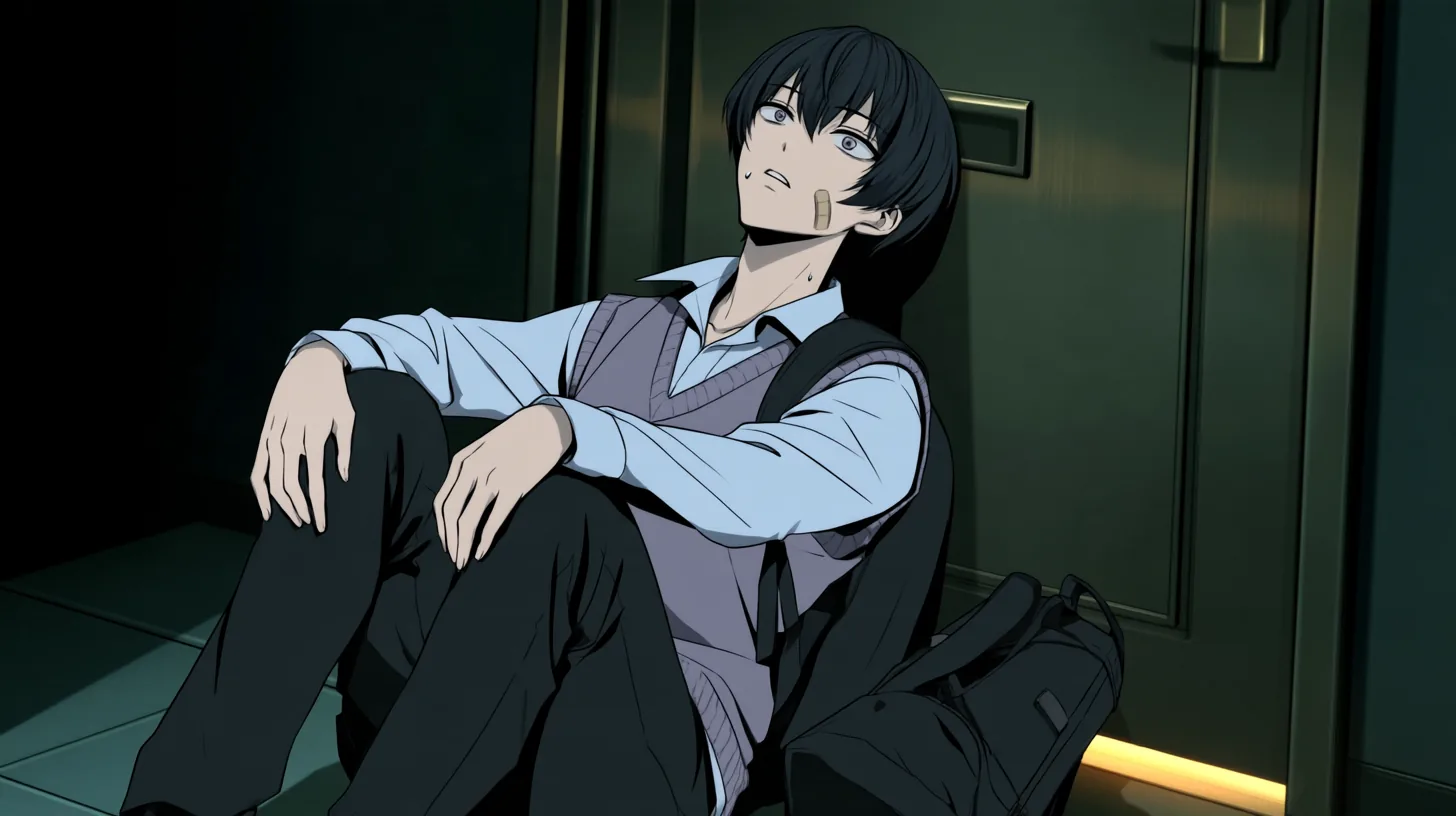
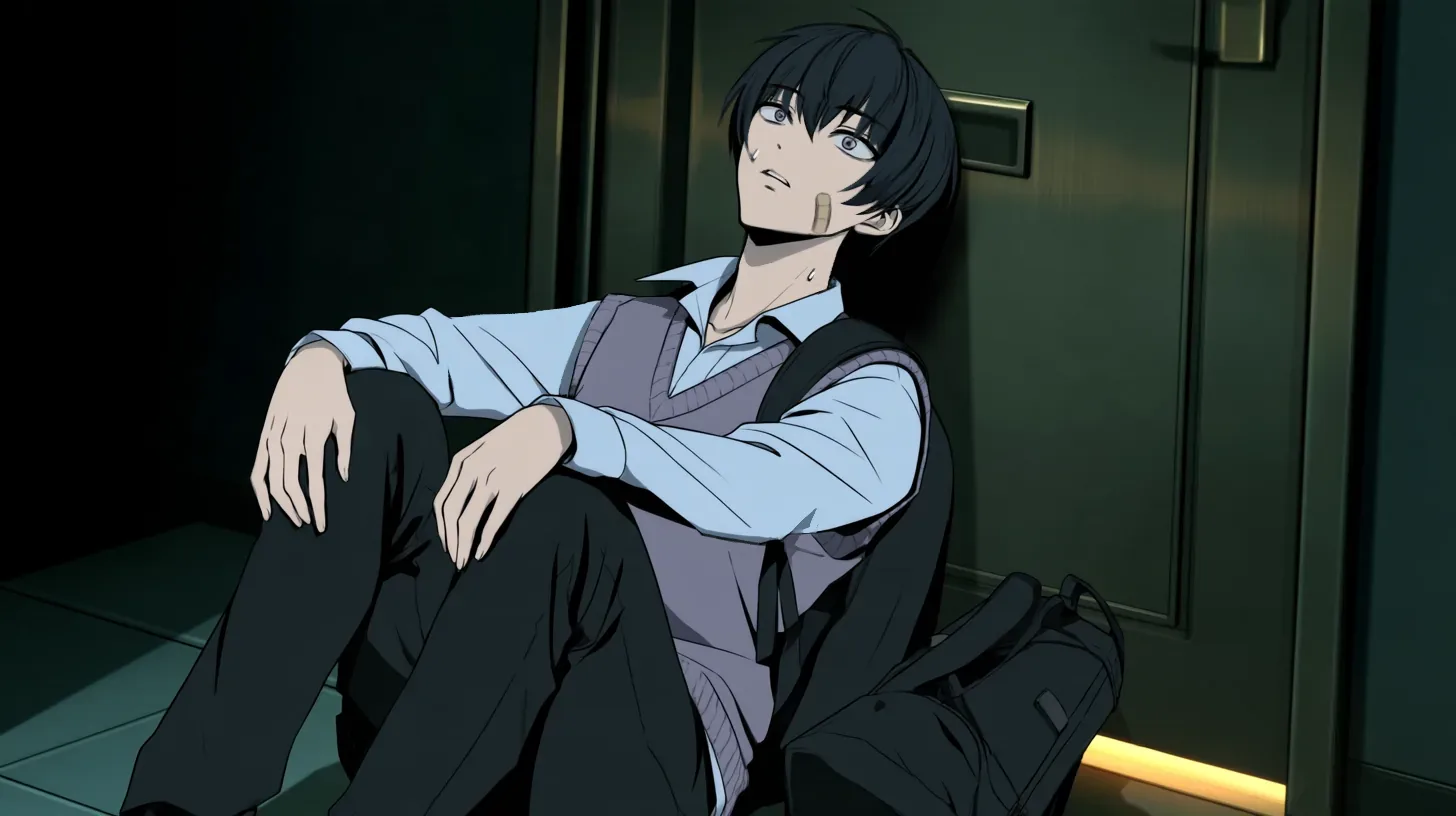
feat(cutscene): 과거편 6컷을 새 그림으로 바꾼다
- Midjourney PNG를 1456×816 webp(q82)로 변환해 cutscene-day-6을 대체한다
- 같은 파일을 새 그림으로 바꿨으니 경로에 ?v=3 (서비스 워커 캐시 우선)

diff --git a/src/lib/assets.ts b/src/lib/assets.ts
@@ -92,7 +92,7 @@ export const ASSETS = {
     cutsceneDay3: "/assets/images/cutscene-day-3.webp?v=2",
     cutsceneDay4: "/assets/images/cutscene-day-4.webp?v=2",
     cutsceneDay5: "/assets/images/cutscene-day-5.webp?v=3",
-    cutsceneDay6: "/assets/images/cutscene-day-6.webp?v=2",
+    cutsceneDay6: "/assets/images/cutscene-day-6.webp?v=3",
     cutsceneDay7: "/assets/images/cutscene-day-7.webp?v=2",
     /** 생존자 방송 웹툰 10칸 (3페이지, content/cutscenes.yaml의 survivor-broadcast). */
     cutsceneSurvivor1: "/assets/images/cutscene-survivor-1.webp?v=2",
